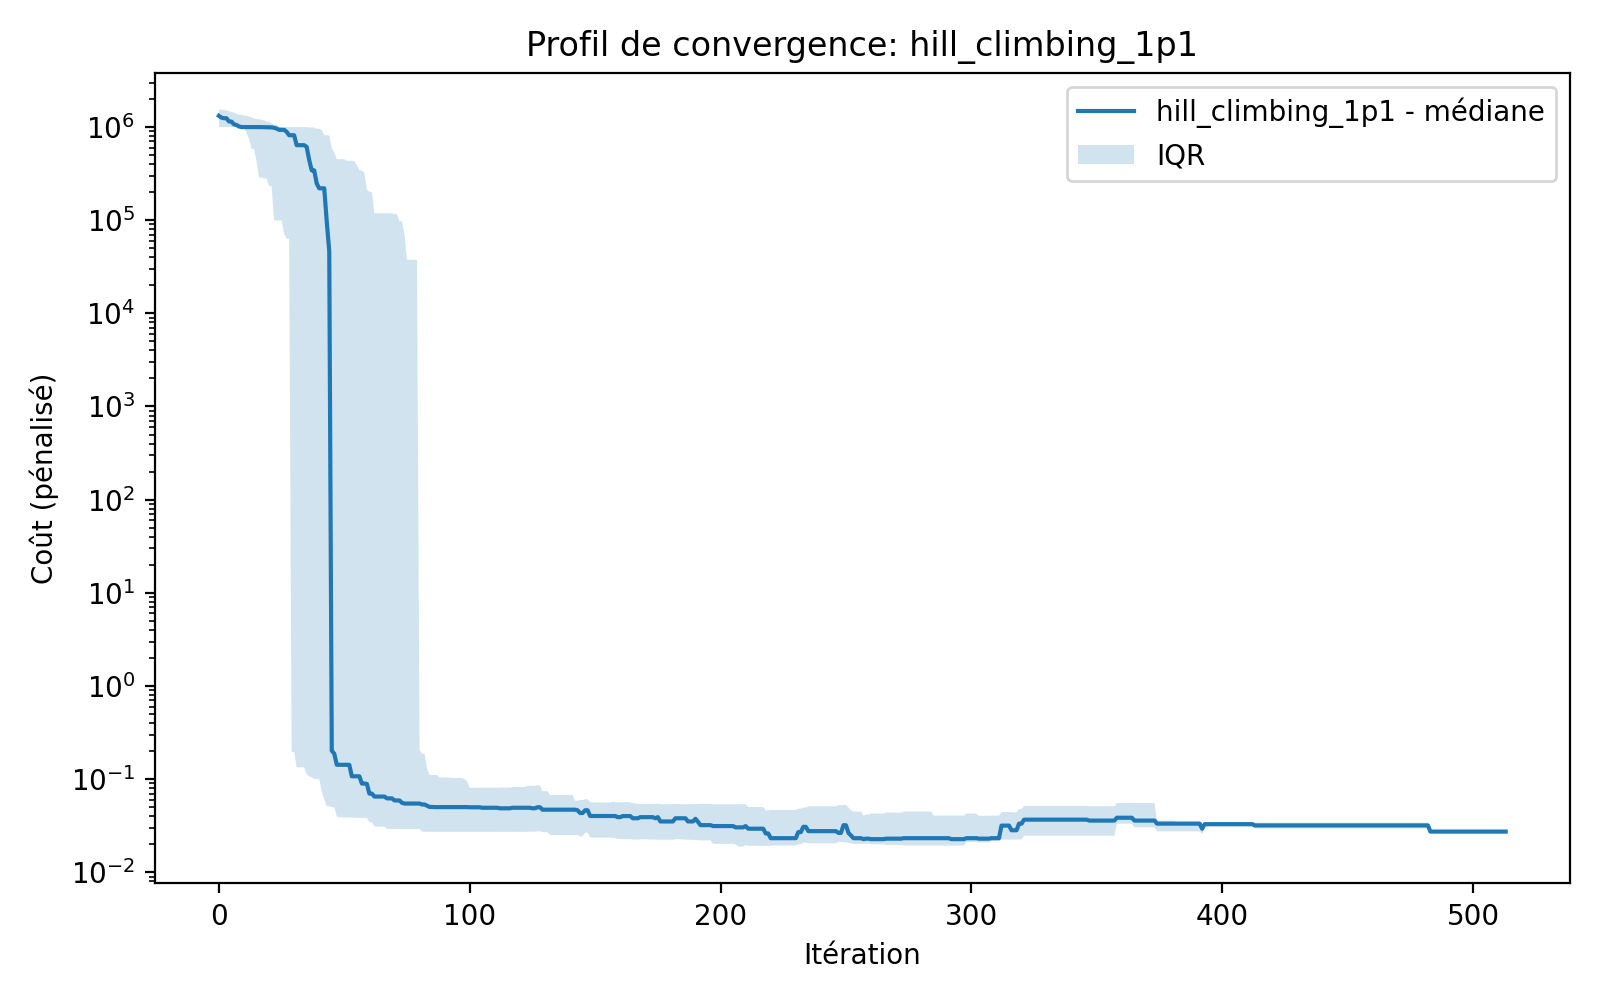
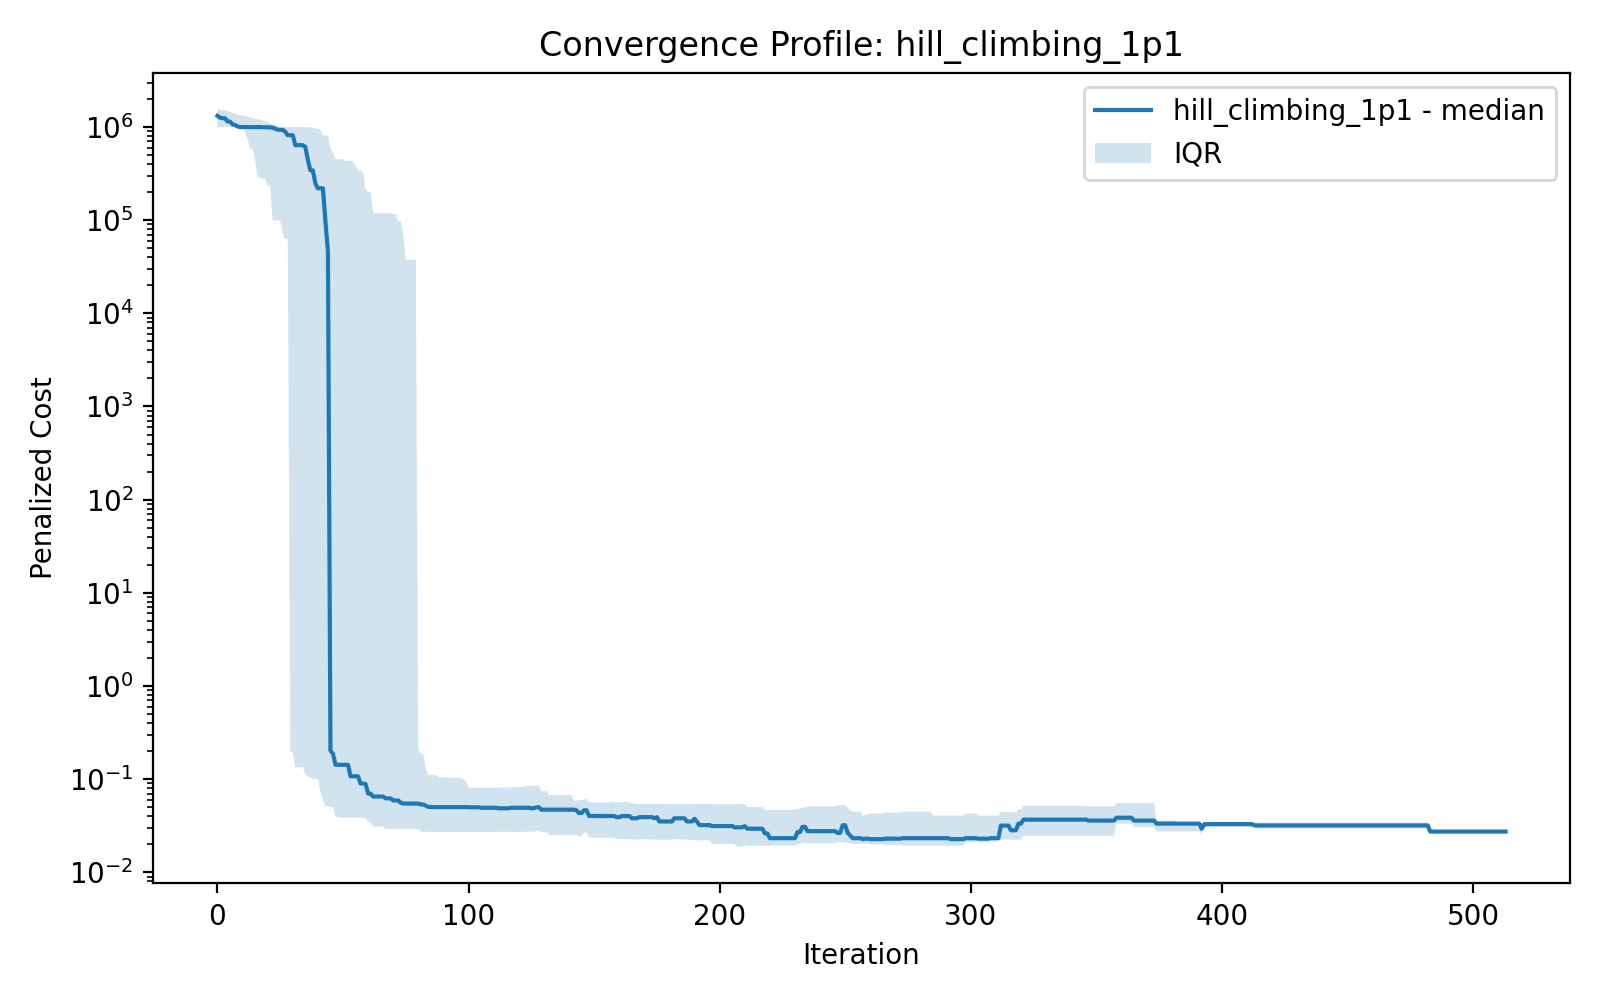
Switch main output visuals and CLI messages to English

diff --git a/main.py b/main.py
@@ -13,25 +13,25 @@ from experiments import ExperimentConfig, run_monte_carlo, save_experiment_outpu
 
 
 def parse_args() -> argparse.Namespace:
-    parser = argparse.ArgumentParser(description="TP1 - 8INF852 - Métaheuristiques")
-    parser.add_argument("--runs", type=int, default=50, help="Nombre d'exécutions Monte-Carlo par algorithme")
-    parser.add_argument("--max-iter", type=int, default=2000, help="Nombre maximal d'itérations")
+    parser = argparse.ArgumentParser(description="TP1 - 8INF852 - Metaheuristics")
+    parser.add_argument("--runs", type=int, default=50, help="Number of Monte Carlo runs per algorithm")
+    parser.add_argument("--max-iter", type=int, default=2000, help="Maximum number of iterations")
     parser.add_argument(
         "--stagnation-iter-limit",
         type=int,
         default=100,
-        help="Arrêt secondaire après N itérations sans amélioration significative",
+        help="Secondary stop after N iterations without significant improvement",
     )
-    parser.add_argument("--epsilon", type=float, default=1e-3, help="Seuil d'amélioration significative")
-    parser.add_argument("--seed", type=int, default=42, help="Seed de base")
-    parser.add_argument("--step-scale", type=float, default=0.05, help="Échelle du voisinage (normalisé)")
-    parser.add_argument("--lambda-neighbors", type=int, default=10, help="Nombre de voisins pour (1,lambda) et SA")
-    parser.add_argument("--penalty-coeff", type=float, default=1e6, help="Coefficient de pénalisation")
-    parser.add_argument("--sa-t0", type=float, default=1.0, help="Température initiale du SA")
-    parser.add_argument("--sa-alpha", type=float, default=0.995, help="Paramètre de refroidissement SA")
-    parser.add_argument("--sa-min-temperature", type=float, default=1e-6, help="Température minimale SA")
-    parser.add_argument("--sa-reheat-factor", type=float, default=1.5, help="Facteur de réchauffement SA")
-    parser.add_argument("--output-dir", type=str, default="outputs", help="Dossier des résultats")
+    parser.add_argument("--epsilon", type=float, default=1e-3, help="Significant improvement threshold")
+    parser.add_argument("--seed", type=int, default=42, help="Base seed")
+    parser.add_argument("--step-scale", type=float, default=0.05, help="Neighborhood scale (normalized)")
+    parser.add_argument("--lambda-neighbors", type=int, default=10, help="Number of neighbors for (1,lambda) and SA")
+    parser.add_argument("--penalty-coeff", type=float, default=1e6, help="Penalty coefficient")
+    parser.add_argument("--sa-t0", type=float, default=1.0, help="Initial SA temperature")
+    parser.add_argument("--sa-alpha", type=float, default=0.995, help="SA cooling parameter")
+    parser.add_argument("--sa-min-temperature", type=float, default=1e-6, help="Minimum SA temperature")
+    parser.add_argument("--sa-reheat-factor", type=float, default=1.5, help="SA reheating factor")
+    parser.add_argument("--output-dir", type=str, default="outputs", help="Results output directory")
     return parser.parse_args()
 
 
@@ -54,30 +54,30 @@ def main() -> None:
         sa_reheat_factor=args.sa_reheat_factor,
     )
 
-    print("[1/4] Lancement des simulations Monte-Carlo...")
+    print("[1/4] Running Monte Carlo simulations...")
     df = run_monte_carlo(config)
 
-    print("[2/4] Sauvegarde des historiques...")
+    print("[2/4] Saving run histories...")
     csv_path, pkl_path = save_experiment_outputs(df, output_dir)
 
-    print("[3/4] Calcul des statistiques finales...")
+    print("[3/4] Computing final statistics...")
     stats = final_statistics_table(df)
     stats_path = output_dir / "final_statistics.csv"
     stats.to_csv(stats_path, index=False)
 
-    print("[4/4] Génération des profils de convergence...")
+    print("[4/4] Generating convergence profiles...")
     profile_df = convergence_profile(df)
     profile_path = output_dir / "convergence_profile.csv"
     profile_df.to_csv(profile_path, index=False)
     plot_convergence_by_algo(profile_df, output_dir)
     comparative_path = plot_comparative_convergence(profile_df, output_dir)
 
-    print("Terminé.")
-    print(f"- Historique CSV: {csv_path}")
-    print(f"- Historique PKL: {pkl_path}")
-    print(f"- Statistiques: {stats_path}")
-    print(f"- Profil convergence: {profile_path}")
-    print(f"- Comparatif: {comparative_path}")
+    print("Done.")
+    print(f"- History CSV: {csv_path}")
+    print(f"- History PKL: {pkl_path}")
+    print(f"- Statistics: {stats_path}")
+    print(f"- Convergence profile: {profile_path}")
+    print(f"- Comparative plot: {comparative_path}")
 
 
 if __name__ == "__main__":

diff --git a/analysis.py b/analysis.py
@@ -42,12 +42,12 @@ def plot_convergence_by_algo(profile_df: pd.DataFrame, output_dir: Path) -> list
 
     for algo, data in profile_df.groupby("algo"):
         fig, ax = plt.subplots(figsize=(8, 5))
-        ax.plot(data["iteration"], data["median_cost"], label=f"{algo} - médiane")
+        ax.plot(data["iteration"], data["median_cost"], label=f"{algo} - median")
         ax.fill_between(data["iteration"], data["q1_cost"], data["q3_cost"], alpha=0.2, label="IQR")
         ax.set_yscale("log")
-        ax.set_xlabel("Itération")
-        ax.set_ylabel("Coût (pénalisé)")
-        ax.set_title(f"Profil de convergence: {algo}")
+        ax.set_xlabel("Iteration")
+        ax.set_ylabel("Penalized Cost")
+        ax.set_title(f"Convergence Profile: {algo}")
         ax.legend(loc="best")
         fig.tight_layout()
 
@@ -67,9 +67,9 @@ def plot_comparative_convergence(profile_df: pd.DataFrame, output_dir: Path) -> 
         ax.plot(data["iteration"], data["median_cost"], label=algo)
 
     ax.set_yscale("log")
-    ax.set_xlabel("Itération")
-    ax.set_ylabel("Médiane du coût pénalisé")
-    ax.set_title("Comparaison interalgorithmes des profils de convergence")
+    ax.set_xlabel("Iteration")
+    ax.set_ylabel("Median Penalized Cost")
+    ax.set_title("Cross-Algorithm Convergence Profile Comparison")
     ax.legend(loc="best")
     fig.tight_layout()
 
